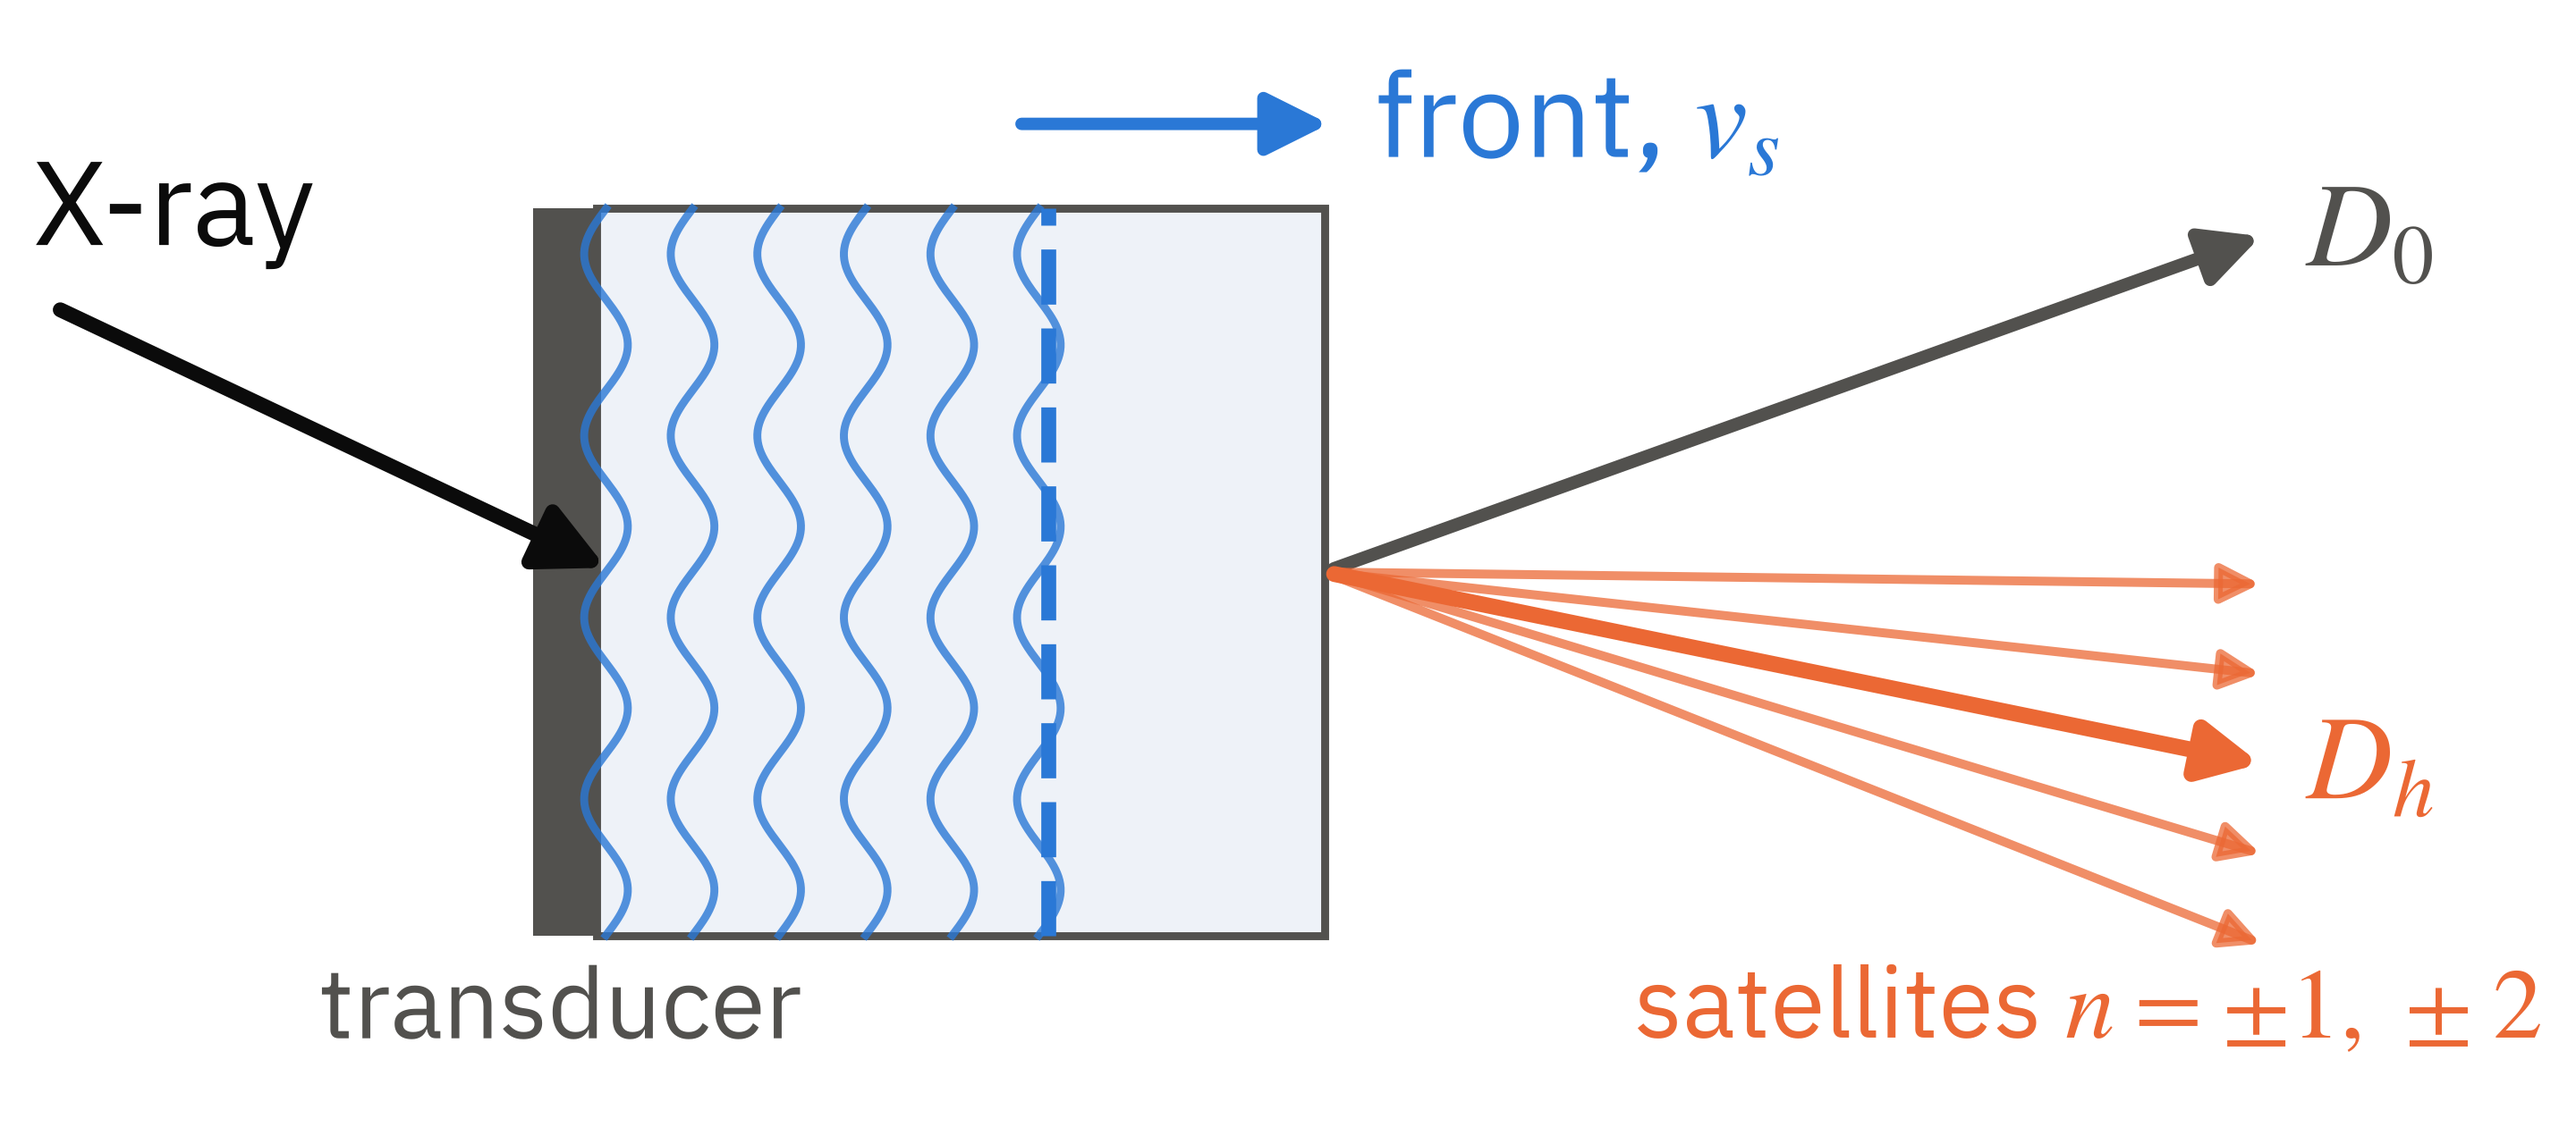
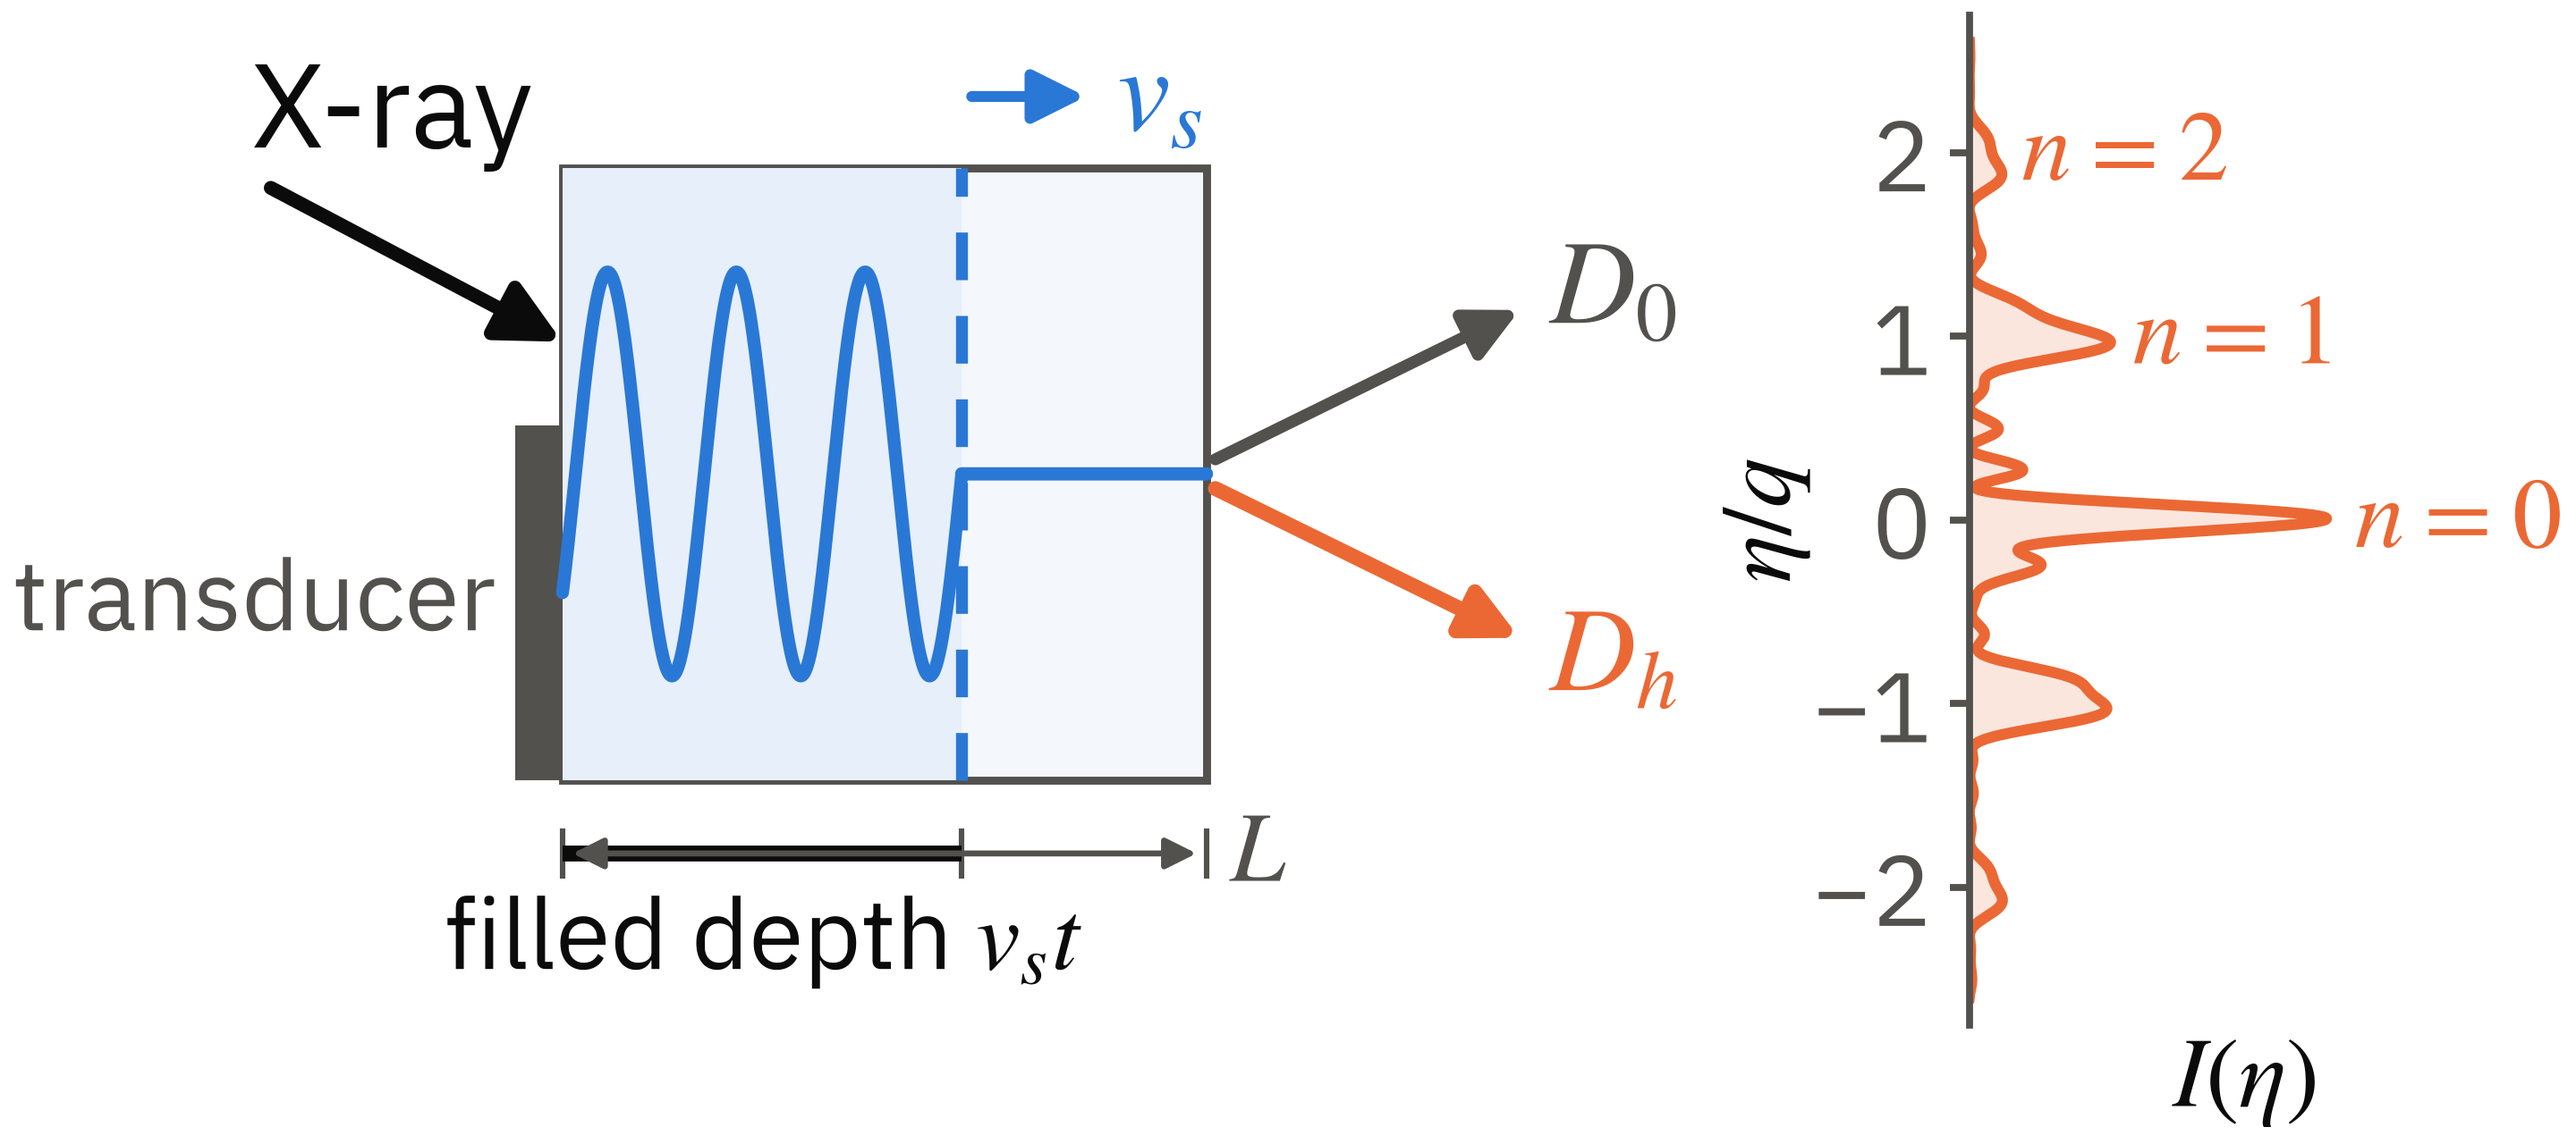
Redraw the overview schematic from the solver instead of by hand
It was the one figure on the poster nobody had computed, and it showed. Worse
than the clip-art look, it was wrong about the physics: the six sine curves
wiggled along the transverse direction, i.e. the modulation varying across the
beam, when the drive varies with depth.

Now every element comes from the same code as the other four figures:

- the profile inside the slab is Drive.phi(t) sampled in depth, so the filled
  region really is modulated and the part ahead of the front really is flat;
- the curve on the right is a real rocking() of that same snapshot, drawn with
  eta vertical so each satellite peak faces the beam it belongs to, which also
  replaces five arrows of arbitrary angle with resolved channels at integer
  eta/q;
- one dimension row carries both L and the filled depth v_s t, the quantity the
  key result is about;
- the transducer sits on the lower part of the entrance face so the beam enters
  clear of it.

Caption added with the parameters, since the panel is now data.

diff --git a/explore/make_poster_figs.py b/explore/make_poster_figs.py
@@ -21,6 +21,10 @@ import numpy as np
 
 ROOT = Path(__file__).resolve().parents[1]
 sys.path.insert(0, str(ROOT / "explore"))
+sys.path.insert(0, str(ROOT / "src"))
+
+from tratt.core import required_nz, rocking  # noqa: E402
+from tratt.drive import Drive  # noqa: E402
 OUT = ROOT / "figures" / "poster"
 for _f in sorted((ROOT / "poster" / "fonts").glob("*.ttf")):     # same typeface as the poster text
     mpl.font_manager.fontManager.addfont(str(_f))
@@ -58,37 +62,89 @@ def finish(fig, ax, name):
 
 
 def f0():
-    """Schematic for half a wide card (text sits on the other half), so FIG_W / 2 wide."""
+    """Schematic for half a wide card (text sits on the other half), so FIG_W / 2 wide.
+
+    Everything here is computed, like the other four figures: the profile inside the slab is
+    `Drive.phi(t)` sampled in depth, and the curve on the right is a real `rocking()` of that
+    same snapshot, turned on its side so each satellite peak faces the beam it belongs to.
+    The earlier version drew sine curves wiggling along the transverse direction, i.e. the
+    modulation varying across the beam rather than with depth -- the opposite of the drive.
+    """
     style()
-    fig, ax = plt.subplots(figsize=(FIG_W / 2, 3.2), constrained_layout=True)
-    ax.set(xlim=(0, 14), ylim=(0, 9.2))
+    alpha, S, alpha_ac, t = 0.6, 1.5, 5.0, 0.62
+    d = Drive(S=S, alpha_ac=alpha_ac)
+
+    fig, (ax, axr) = plt.subplots(
+        1, 2, figsize=(FIG_W / 2, 3.2), constrained_layout=True,
+        gridspec_kw=dict(width_ratios=[2.5, 1.0], wspace=0.0))
+
+    # ---- left: the crystal in cross-section, with the real phase profile inside it
+    ax.set(xlim=(-3.3, 9.6), ylim=(-0.3, 9.6))
     ax.axis("off")
-    x0, x1, y0, y1 = 3.2, 7.2, 1.6, 7.6                       # crystal slab (Laue: beams cross it)
-    ax.add_patch(plt.Rectangle((x0, y0), x1 - x0, y1 - y0, fc="#eef2f8", ec=INK2, lw=1.6))
-    xf = x0 + 0.62 * (x1 - x0)                                  # acoustic front inside the crystal
-    yy = np.linspace(y0, y1, 400)
-    for k in range(6):
-        xs = x0 + 0.05 + k * (xf - x0 - 0.1) / 5
-        ax.plot(xs + 0.12 * np.sin(2 * np.pi * (yy - y0) / 1.5), yy, color=BLUE, lw=1.6, alpha=0.8)
-    ax.plot([xf, xf], [y0, y1], color=BLUE, lw=3, ls="--")
-    ax.annotate("", xy=(xf + 1.6, 8.3), xytext=(xf - 0.2, 8.3),
-                arrowprops=dict(arrowstyle="-|>", color=BLUE, lw=2.5, mutation_scale=26))
-    ax.text(xf + 1.8, 8.3, r"front, $v_s$", color=BLUE, va="center", fontsize=BIG)
-    ax.add_patch(plt.Rectangle((x0 - 0.35, y0), 0.35, y1 - y0, fc=INK2, ec="none"))
-    ax.text(x0 - 0.2, 0.75, "transducer", ha="center", fontsize=SMALL, color=INK2)
-    ax.annotate("", xy=(x0 + 0.1, 4.6), xytext=(0.2, 6.8),
-                arrowprops=dict(arrowstyle="-|>", color=INK, lw=3, mutation_scale=28))
-    ax.text(0.1, 7.3, "X-ray", fontsize=BIG)
-    ax.annotate("", xy=(12.4, 7.4), xytext=(x1, 4.6),       # forward beam
-                arrowprops=dict(arrowstyle="-|>", color=INK2, lw=2.6, mutation_scale=24))
-    ax.text(12.6, 7.4, r"$D_0$", va="center", fontsize=BIG, color=INK2)
-    for n in (-2, -1, 0, 1, 2):                              # diffracted beam D_h and its satellites
-        y = 3.0 - 0.75 * n
-        ax.annotate("", xy=(12.4, y), xytext=(x1, 4.6),
-                    arrowprops=dict(arrowstyle="-|>", color=ORANGE, lw=3.2 if n == 0 else 1.8,
-                                    mutation_scale=24 if n == 0 else 16, alpha=1 if n == 0 else 0.75))
-    ax.text(12.6, 3.0, r"$D_h$", va="center", fontsize=BIG, color=ORANGE)
-    ax.text(13.9, 0.75, r"satellites $n=\pm1,\pm2$", ha="right", fontsize=SMALL, color=ORANGE)
+    x0, x1, y0, y1 = 0.0, 6.0, 2.1, 8.1            # slab; depth zeta runs left to right
+    xf = x0 + t * (x1 - x0)                         # acoustic front
+    ymid = 0.5 * (y0 + y1)
+
+    ax.add_patch(plt.Rectangle((x0, y0), x1 - x0, y1 - y0, fc="#f4f7fb", ec=INK2, lw=1.6, zorder=1))
+    ax.add_patch(plt.Rectangle((x0, y0), xf - x0, y1 - y0, fc="#e7effa", ec="none", zorder=1))
+
+    zz = np.linspace(0.0, 1.0, 1200)
+    phi = d.phi(t)(zz)
+    amp = 0.33 * (y1 - y0) / max(abs(phi).max(), 1e-9)
+    ax.plot(x0 + zz * (x1 - x0), ymid + amp * phi, color=BLUE, lw=2.6, zorder=3,
+            solid_capstyle="round")
+    ax.plot([xf, x1], [ymid, ymid], color=BLUE, lw=2.6, zorder=3, solid_capstyle="round")
+    ax.plot([xf, xf], [y0, y1], color=BLUE, lw=2.4, ls=(0, (4, 3)), zorder=4)
+
+    # transducer on the lower part of the entrance face, so the beam enters clear of it
+    ty = y0 + 0.58 * (y1 - y0)
+    ax.add_patch(plt.Rectangle((x0 - 0.44, y0), 0.44, ty - y0, fc=INK2, ec="none", zorder=2))
+    ax.text(x0 - 0.62, 0.5 * (y0 + ty), "transducer", ha="right", va="center",
+            fontsize=SMALL, color=INK2)
+
+    # front marker
+    ax.annotate("", xy=(xf + 1.25, y1 + 0.70), xytext=(xf, y1 + 0.70),
+                arrowprops=dict(arrowstyle="-|>", color=BLUE, lw=2.2, mutation_scale=22))
+    ax.text(xf + 1.45, y1 + 0.70, r"$v_s$", color=BLUE, va="center", fontsize=BIG)
+
+    # one dimension row: the slab thickness, with the filled part picked out on the same line
+    yd = y0 - 0.72
+    ax.annotate("", xy=(x1, yd), xytext=(x0, yd),
+                arrowprops=dict(arrowstyle="<|-|>", color=INK2, lw=1.2, mutation_scale=13))
+    for x in (x0, xf, x1):
+        ax.plot([x, x], [yd - 0.22, yd + 0.22], color=INK2, lw=1.1)
+    ax.plot([x0, xf], [yd, yd], color=INK, lw=3.2, solid_capstyle="butt")
+    ax.text(x1 + 0.22, yd, r"$L$", ha="left", va="center", fontsize=SMALL, color=INK2)
+    ax.text(0.5 * (x0 + xf), yd - 0.38, r"filled depth $v_s t$", ha="center", va="top",
+            fontsize=SMALL, color=INK)
+
+    # beams: in above the transducer, forward and diffracted out
+    ax.annotate("", xy=(x0 + 0.08, ymid + 1.25), xytext=(-2.8, ymid + 2.85),
+                arrowprops=dict(arrowstyle="-|>", color=INK, lw=2.8, mutation_scale=26), zorder=5)
+    ax.text(-2.9, ymid + 3.2, "X-ray", fontsize=BIG, color=INK)
+    ax.annotate("", xy=(9.0, ymid + 1.65), xytext=(x1, ymid + 0.1),
+                arrowprops=dict(arrowstyle="-|>", color=INK2, lw=2.4, mutation_scale=22))
+    ax.text(9.2, ymid + 1.8, r"$D_0$", va="center", fontsize=BIG, color=INK2)
+    ax.annotate("", xy=(9.0, ymid - 1.65), xytext=(x1, ymid - 0.1),
+                arrowprops=dict(arrowstyle="-|>", color=ORANGE, lw=3.0, mutation_scale=22))
+    ax.text(9.2, ymid - 1.8, r"$D_h$", va="center", fontsize=BIG, color=ORANGE)
+
+    # ---- right: the same snapshot, actually solved, eta vertical so peaks face the beam
+    eta = np.linspace(-2.6 * d.q, 2.6 * d.q, 4001)
+    I = rocking(alpha, eta, phi=d.phi(t), n_z=required_nz(alpha, alpha_ac))
+    axr.plot(I, eta / d.q, color=ORANGE, lw=2.2)
+    axr.fill_betweenx(eta / d.q, 0, I, color=ORANGE, alpha=0.16)
+    axr.set(xlim=(0, 1.55 * I.max()), ylim=(-2.75, 2.75), xticks=[], yticks=[-2, -1, 0, 1, 2])
+    axr.set_xlabel(r"$I(\eta)$", fontsize=SMALL, labelpad=1)
+    axr.set_ylabel(r"$\eta / q$", fontsize=SMALL, labelpad=0)
+    axr.tick_params(labelsize=SMALL, length=4)
+    for s in ("top", "right", "bottom"):
+        axr.spines[s].set_visible(False)
+    axr.grid(False)
+    for n in (0, 1, 2):
+        axr.annotate(f"$n={n}$", (float(np.interp(n * d.q, eta, I)), n), fontsize=SMALL,
+                     color=ORANGE, va="center", xytext=(6, 0), textcoords="offset points")
+
     OUT.mkdir(parents=True, exist_ok=True)
     fig.savefig(OUT / "f0_scheme.png", dpi=400)  # half the card width, so twice the dpi to print like the rest
     print("wrote", OUT / "f0_scheme.png")

diff --git a/poster/poster.md b/poster/poster.md
@@ -19,7 +19,7 @@ A travelling acoustic wave enters a perfect crystal. The steady-state satellites
 
 Temporal Pendellösung of the main reflection: DeCamp et al., Nature 413, 825 (2001). Steady-state acoustic satellites: Entin; Zolotoyabko et al. {E7}
 
-![](figures/poster/f0_scheme.png){E0}
+![Snapshot at $\tilde t$ = 0.62: the profile inside the slab is the drive, the curve on the right the solved $I(\eta)$ of that same instant ($\alpha$ = 0.6, $S$ = 1.5, $\alpha_{ac}$ = 5).](figures/poster/f0_scheme.png){E0}
 
 > **Key result.** Behind the front, satellite $n$ is a crystal of the filled depth $v_s t$ with coupling $\pi\alpha\left|J_n(S)\right|$. Formation runs on a dynamical clock, $t_{tr}/(\alpha\left|J_n(S)\right|)$: the transit time only ends the transient. {E1}{E9}{E33}
 
